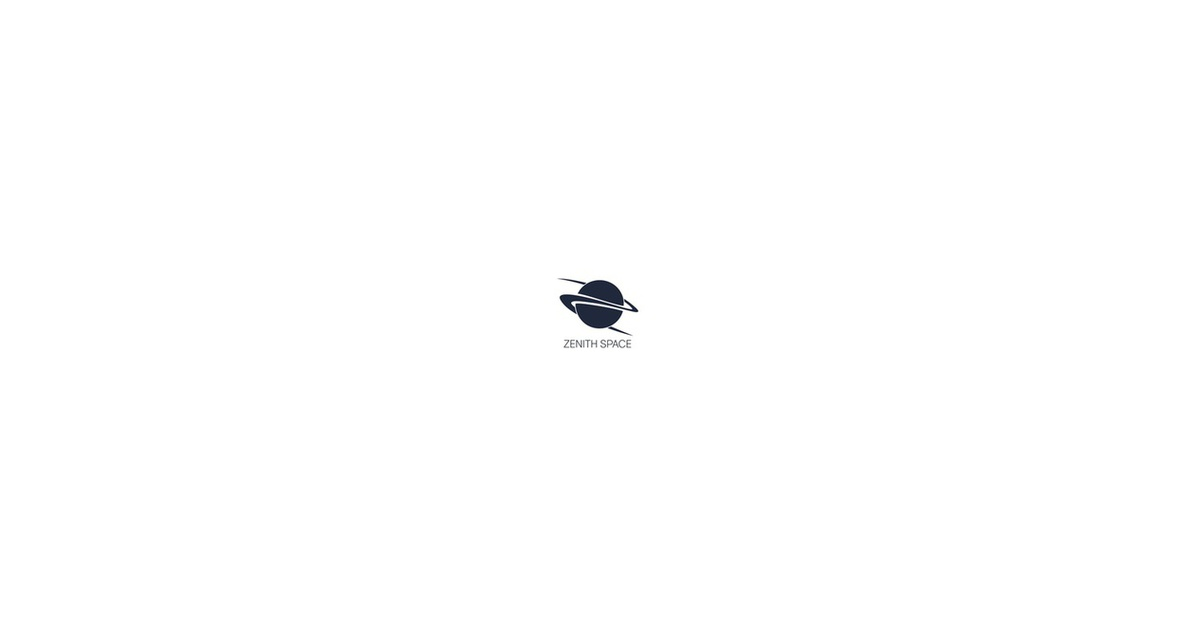
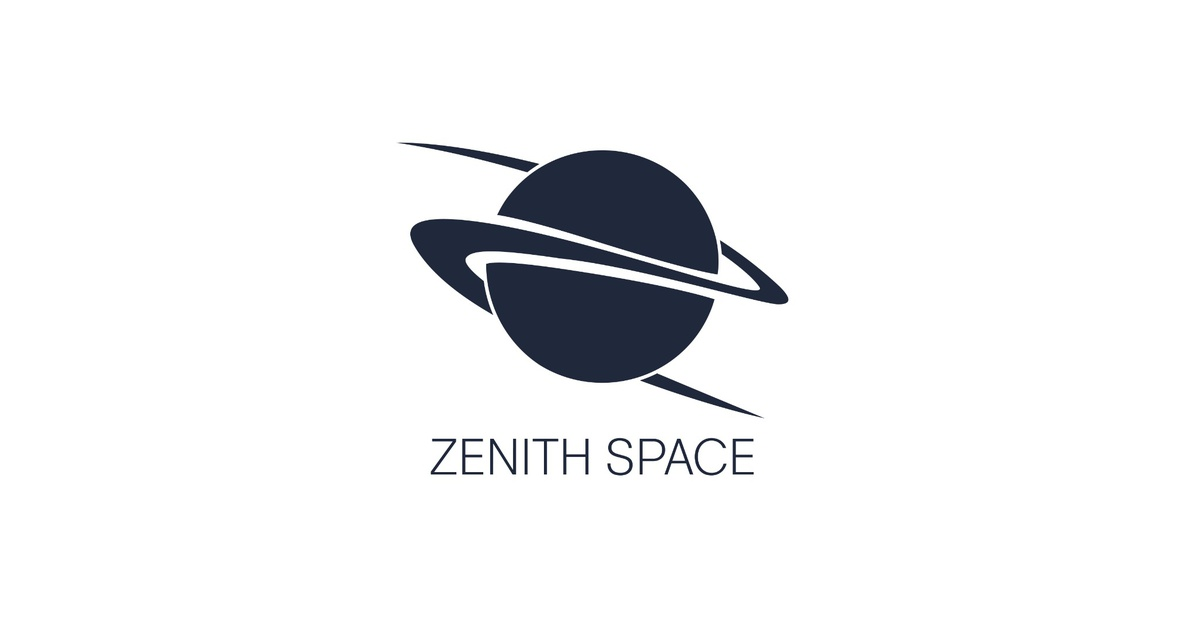
Fix OG image recursive shrinking issue

Changed region(s): [[0.3392, 0.2111, 0.6783, 0.6333], [0.3392, 0.6937, 0.6475, 0.754], [0.5858, 0.6333, 0.6475, 0.6635]]

diff --git a/zenith-web/index.html b/zenith-web/index.html
@@ -11,7 +11,7 @@
     content="Zenith Space, SeoulTech, Robotics, Mars Rover, URC, University Rover Challenge, Aerospace, Engineering" />
   <meta property="og:title" content="Zenith Space" />
   <meta property="og:description" content="Our Dream, Your Future." />
-  <meta property="og:image" content="https://zenith.or.kr/og-image.jpg?v=5" />
+  <meta property="og:image" content="https://zenith.or.kr/og-image.jpg?v=6" />
   <meta property="og:type" content="website" />
 </head>
 

diff --git a/zenith-web/resize_og_image.py b/zenith-web/resize_og_image.py
@@ -1,0 +1,44 @@
+from PIL import Image
+
+def resize_and_pad_image(input_path, output_path, target_size=(1200, 630), background_color=(255, 255, 255)):
+    try:
+        img = Image.open(input_path)
+        img_ratio = img.width / img.height
+        target_ratio = target_size[0] / target_size[1]
+
+        # Calculate new size to fit within target_size while maintaining aspect ratio
+        # Leave minimal padding (e.g., 95% of the smaller dimension) - Maximum size
+        padding_factor = 0.95
+        
+        if img_ratio > target_ratio:
+            # Width is the limiting factor
+            new_width = int(target_size[0] * padding_factor)
+            new_height = int(new_width / img_ratio)
+        else:
+            # Height is the limiting factor
+            new_height = int(target_size[1] * padding_factor)
+            new_width = int(new_height * img_ratio)
+
+        resized_img = img.resize((new_width, new_height), Image.Resampling.LANCZOS)
+
+        # Create new image with background color
+        new_img = Image.new("RGB", target_size, background_color)
+        
+        # Paste resized image in the center
+        paste_x = (target_size[0] - new_width) // 2
+        paste_y = (target_size[1] - new_height) // 2
+        
+        # Handle transparency if original image has alpha channel
+        if img.mode == 'RGBA':
+            new_img.paste(resized_img, (paste_x, paste_y), resized_img)
+        else:
+            new_img.paste(resized_img, (paste_x, paste_y))
+
+        new_img.save(output_path, quality=95)
+        print(f"Successfully saved resized image to {output_path}")
+
+    except Exception as e:
+        print(f"Error: {e}")
+
+if __name__ == "__main__":
+    resize_and_pad_image("public/og-image-source.jpg", "public/og-image.jpg")
